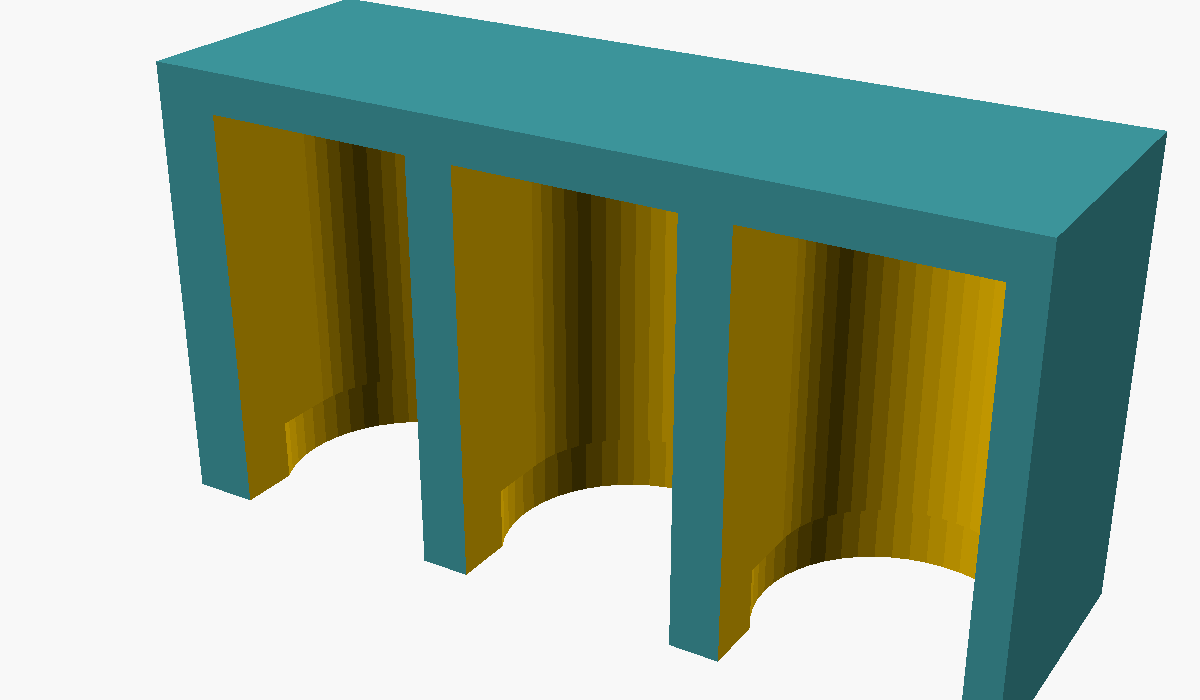
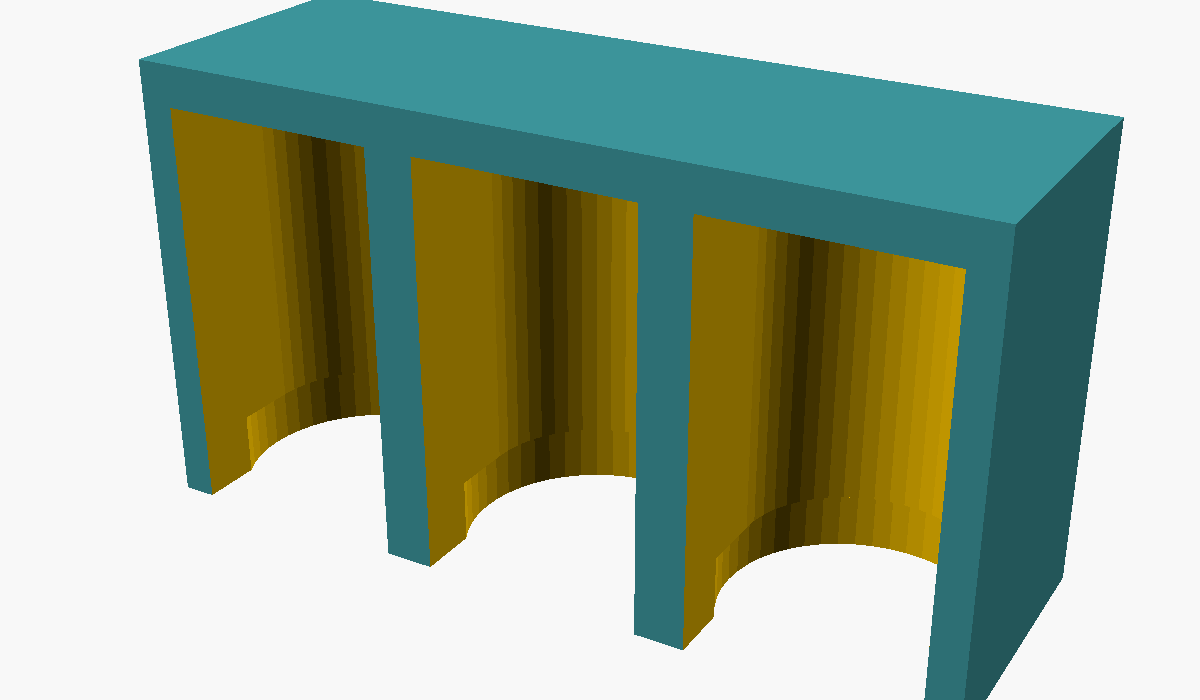
LED comb: thin end wall at the PWR/ETH end too, the fuse holder is close
Renato's top view of the Micro shows the fuse holder (FH1) about 1.5 mm
from the PWR/ETH LED, as the RJ45 is from the AS-ACT LED, so both end
walls are 0.8 mm now (the comb is 20 mm wide).

Claude-Session: https://claude.ai/code/session_014q5ALSaxyGLFrEZnZLKkJd

diff --git a/LED_Bezel/README.md b/LED_Bezel/README.md
@@ -16,10 +16,10 @@ A small 3D-printed comb that keeps the light of the three front LEDs of the AiO 
 
 - Three cells of 5.4 mm, 6.6 mm apart (the pitch of the LEDs on both boards, from the pick-and-place files of the [official AiO v4.5](https://github.com/AgOpenGPS-Official/Boards/tree/main/TeensyModules)), 10 mm deep under a 1 mm roof.
 - A 6.2 mm counterbore, 1.5 mm high, at the bottom of each cell for the LED's base flange.
-- Dividers 1.2 mm thick (what the pitch leaves), back wall 1.2 mm, end wall 1.6 mm at the PWR end and 0.8 mm at the AS-ACT end: on the Micro the RJ45 shield is only about 1 mm from the last LED.
+- Dividers 1.2 mm thick (what the pitch leaves), back wall 1.2 mm, end walls 0.8 mm: on the Micro the RJ45 shield is about 1 mm from the AS-ACT LED and the fuse holder about 1.5 mm from the PWR/ETH LED.
 - The front face 3.0 mm from the LED centres, that is at the board edge (3.05 mm from the centres on the Micro, 3.3 mm on the Standard). In the RayCorp case the board edge touches the front panel, so the dividers end against the panel.
 
-Overall about 24 x 7 x 11 mm.
+Overall about 20 x 7 x 11 mm.
 
 ## Before printing: check one thing
 
@@ -29,7 +29,7 @@ If there is a gap between the board edge and the inside of the front panel in yo
 
 - Print in **black or another opaque** filament, roof down on the bed, no supports. Opaque matters: the walls are there to stop one LED lighting the next window.
 - Slide the comb down over the three LEDs, open side towards the panel, until it rests on the LED flanges. A tight print takes `hole = 5.6`.
-- If it touches the RJ45, set `end_wall_right` to 0.5 or sand that end.
+- If it touches the RJ45 or the fuse holder, set `end_wall_right` or `end_wall_left` to 0.5, or sand that end.
 
 ## Without a printer
 
